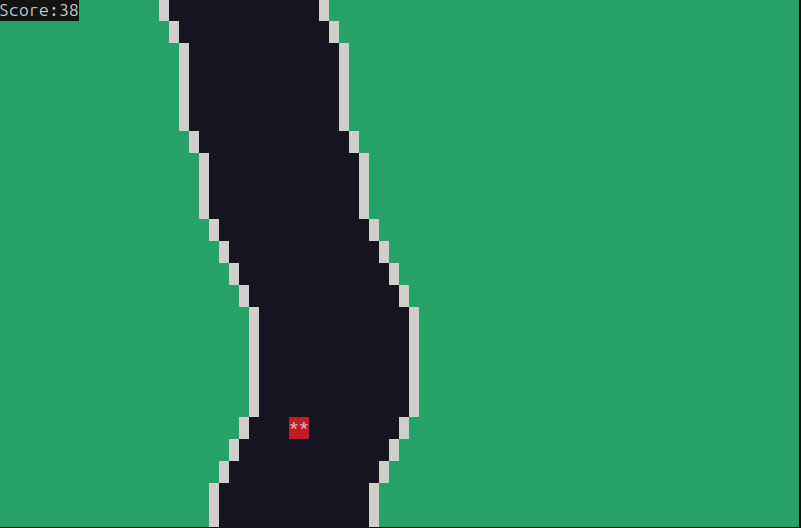
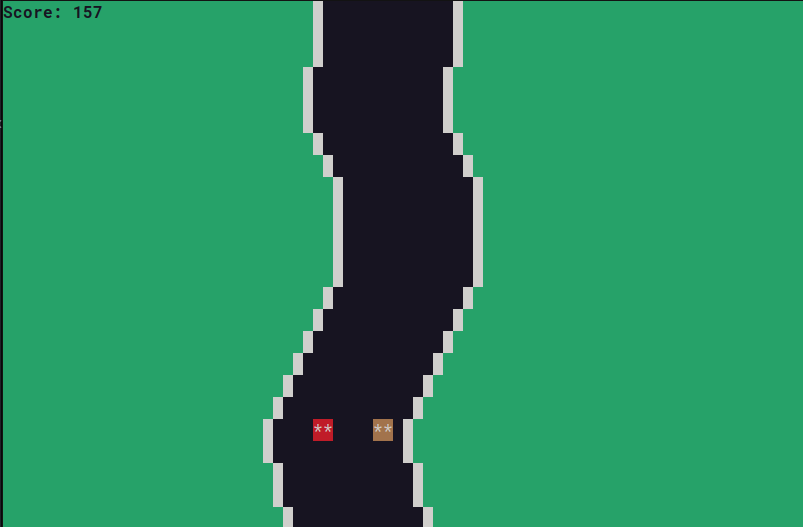
Modified README.md

Changed region(s): [[0.1873, 0.0, 0.6242, 1.0], [0.0, 0.0, 0.1248, 1.0], [0.9675, 0.0, 1.0, 1.0]]

diff --git a/README.md b/README.md
@@ -1,30 +1,50 @@
-# cli-race
+# **cli-race**
 
 Minimal and lightweight race game that runs on command line interface.
 
-## Commands
+## **Commands**
 
-- `a`: left
-- `d`: right
-- `esc`: quit the game
+- First player
+	- `a`: left
+	- `d`: right
+- Second player
+	- `left arrow`: left
+	- `right arrow`: right
+- `esc`: pause menu
+- `t`: autoplay
 
-## Versions
+### **Install**
 
-- `cli-race`:
-	- source code size: 5060 bytes
-	- compiled executable size: 17264 bytes
+To install **cli-race**, follow these steps:
 
-- `min-cli-race`: 
-	- source code size: 1723 bytes
-	- compiled executable size: 14544 bytes
+1. **Clone the repository:**
+   ```sh
+   git clone https://github.com/antoniopelusi/cli-race.git
+   ```
 
-## Instructions
+   or
 
-- `make`: compile
+   ```sh
+   git clone git@github.com:antoniopelusi/cli-race.git
+   ```
 
-- `run`: run cli-race
+2. **Move to the repository directory:**
+    ```sh
+    cd cli-race
+    ```
 
-- `run_min`: run min-cli-race
+3. **Run the installer script:**
+    ```sh
+    make install
+    ```
+
+### **Usage**
+
+- **Run game:**
+    ```sh
+    cli-race
+    ```
+
 
 ## Screenshot
 
